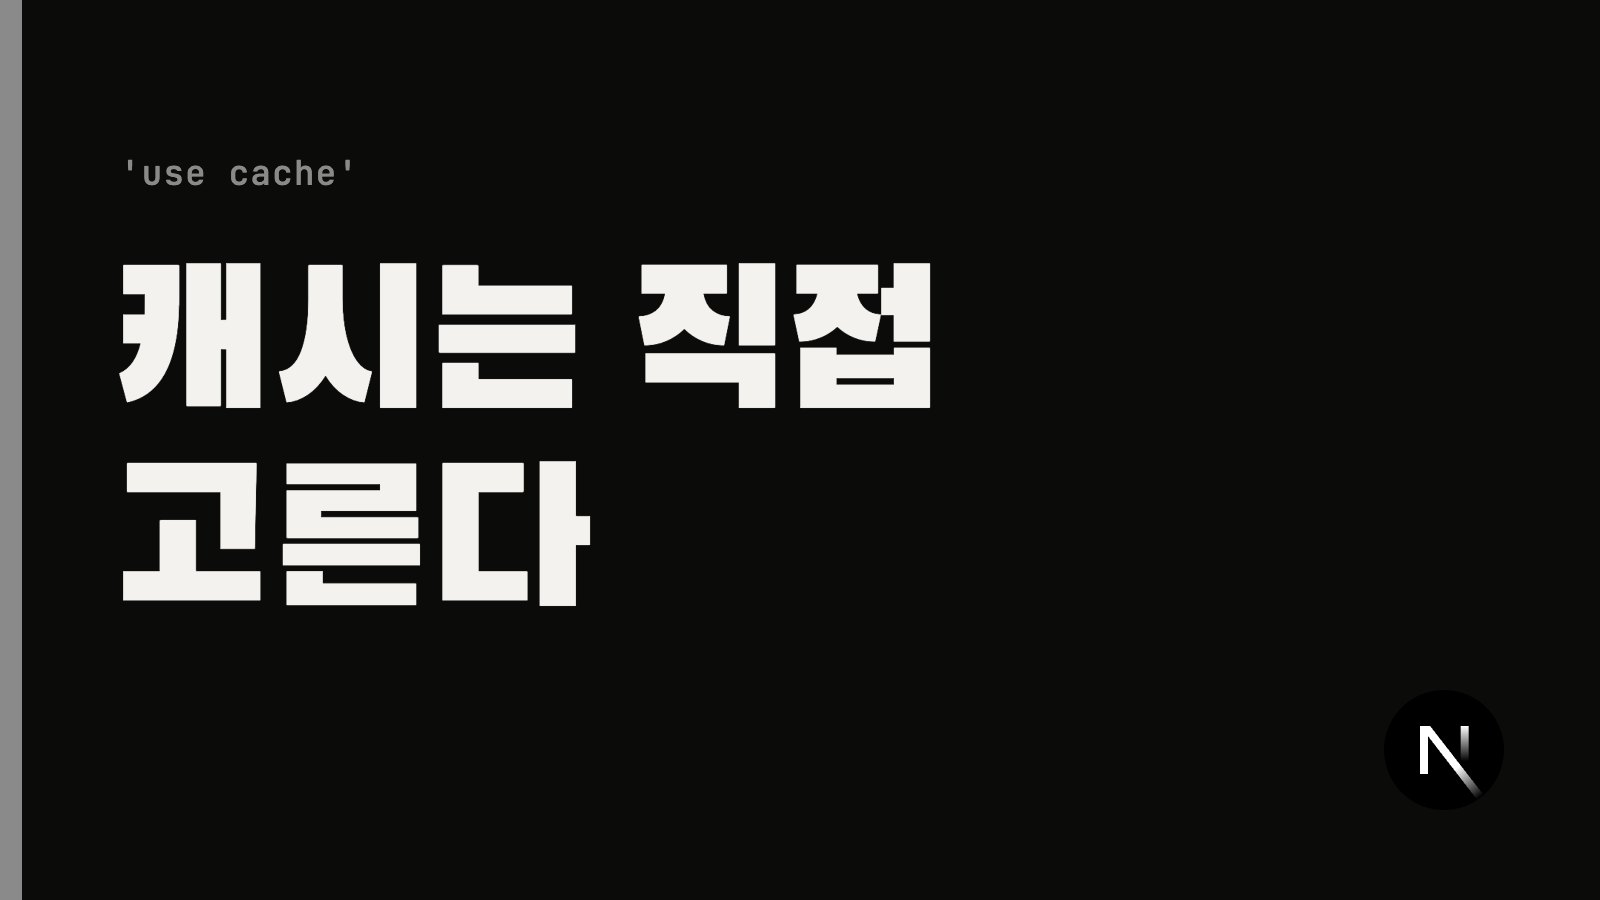
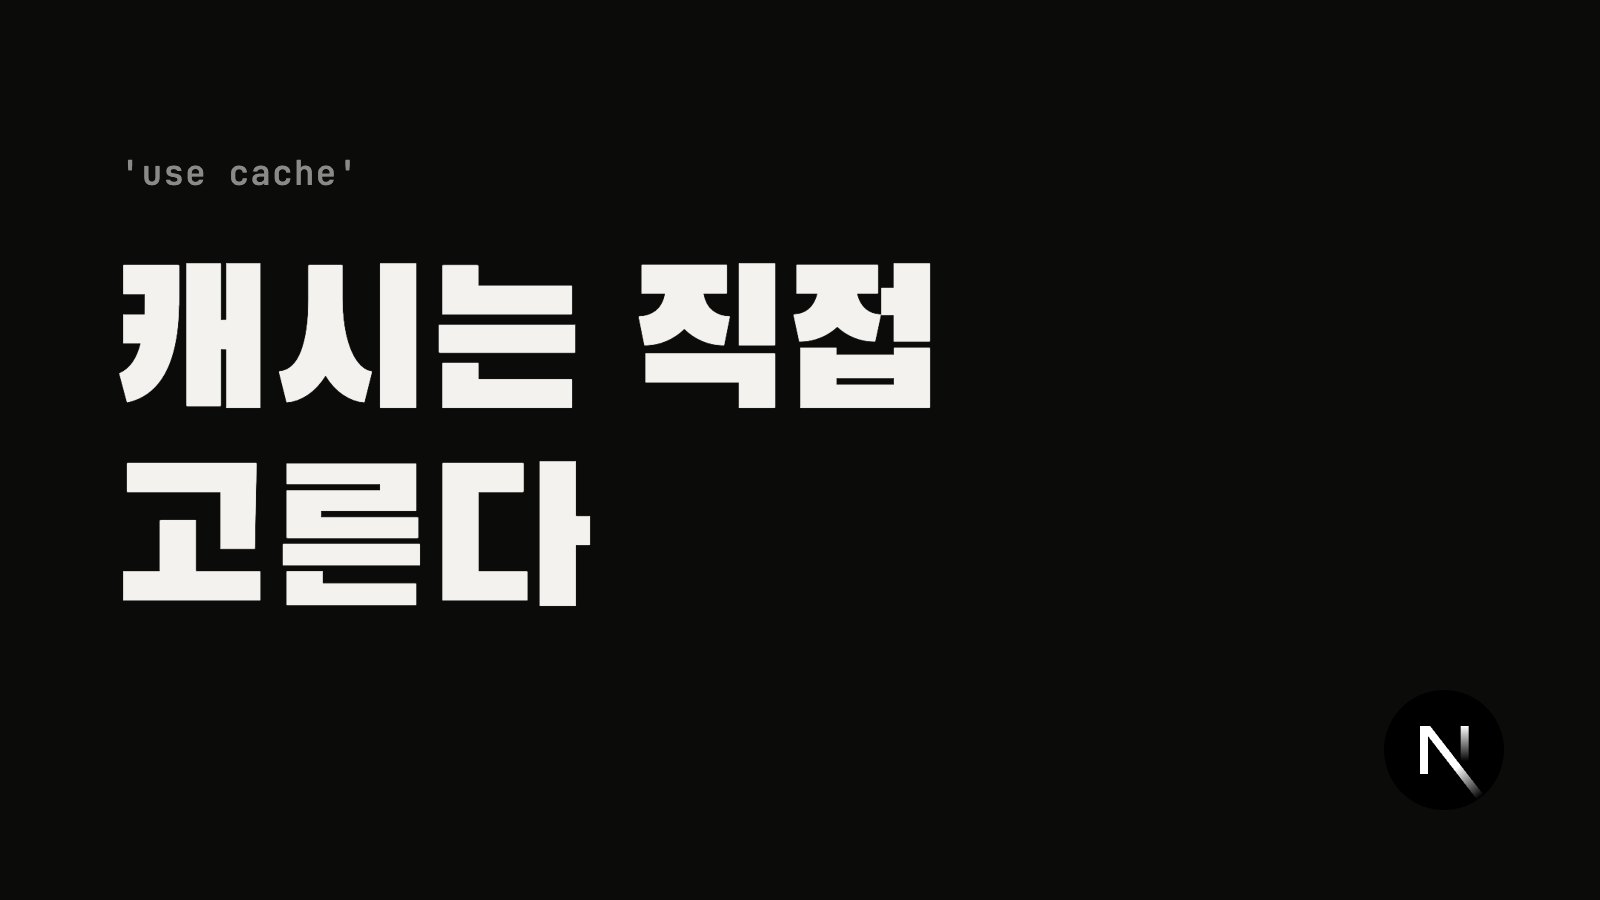
style: 왼쪽 강조선 없애기(인용 블록·큰 글자 커버)
- 본문 인용 블록의 4px 왼쪽 테두리를 지우고 면(배경·모서리 8px)으로만 구분
- 큰 글자(typography) 커버 왼쪽의 22px 세로 막대 삭제
- 해당 형식 커버 3편(04-08 @layer, 04-21 React Compiler, 10-08 Cache Components) 다시 그림

Changed region(s): [[0.0, 0.0, 0.0312, 1.0]]

diff --git a/src/post/cover/templates.ts b/src/post/cover/templates.ts
@@ -176,13 +176,12 @@ function typography(spec: CoverSpec): string {
   const accent = accentOf(spec);
   return page(
     `.c{background:${BG}}
-     .bar{position:absolute;left:0;top:0;bottom:0;width:22px;background:${accent}}
      .kw{position:absolute;left:120px;top:150px;font-size:34px;color:${accent};letter-spacing:.04em}
      .head{position:absolute;left:112px;right:300px;top:230px;font-family:'Anton','Black Han Sans','Pretendard Variable',sans-serif;
        font-size:${spec.headline.length > 14 ? 150 : 190}px;line-height:1.04;color:${INK}}
      .corner{left:auto;right:96px;top:auto;bottom:90px;width:120px;height:120px}`,
     `<link rel="stylesheet" href="https://fonts.googleapis.com/css2?family=Anton&family=Black+Han+Sans&display=swap">
-     <div class="bar"></div><div class="kw mono">${escapeHtml(spec.keyword)}</div><div class="head">${escapeHtml(spec.headline)}</div>${cornerLogo(spec)}`
+     <div class="kw mono">${escapeHtml(spec.keyword)}</div><div class="head">${escapeHtml(spec.headline)}</div>${cornerLogo(spec)}`
   );
 }
 

diff --git a/web/src/views/post/ui/PostView.module.css b/web/src/views/post/ui/PostView.module.css
@@ -214,11 +214,11 @@
 .prose :global(td) {
   font-size: 13.6px;
 }
+/* 왼쪽 강조선 없이 면으로만 구분한다(사용자 요청 — 흔한 AI 스타일이라 뺐다) */
 .prose :global(blockquote) {
-  border-left: 4px solid var(--blog-accent);
   background: var(--blog-surface);
-  border-radius: 0 6px 6px 0;
-  padding: 14px 20px;
+  border-radius: 8px;
+  padding: 16px 20px;
   margin: 14px 0 30px;
 }
 .prose :global(blockquote p) {
